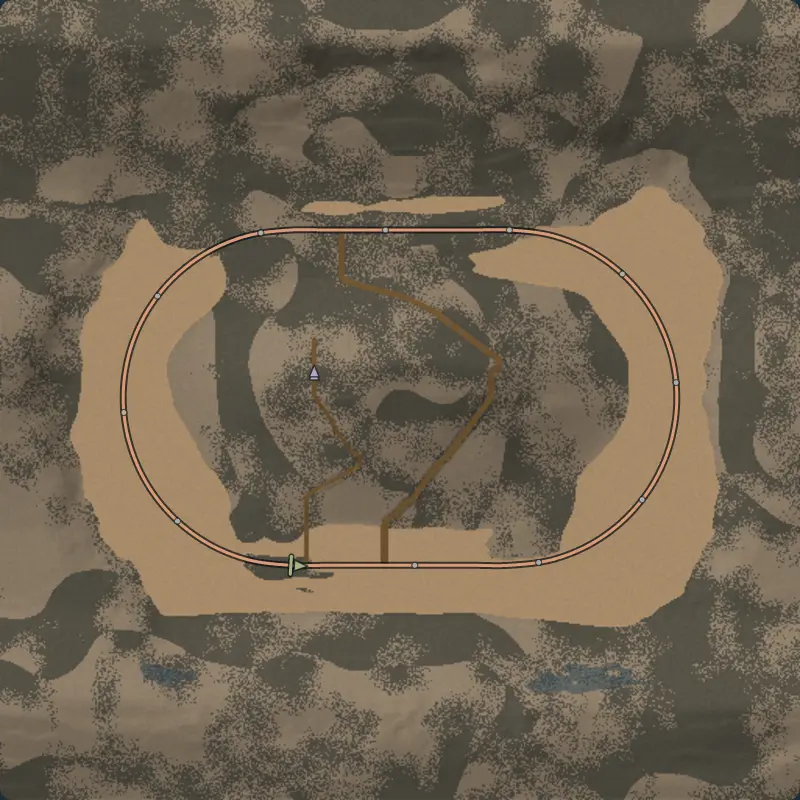
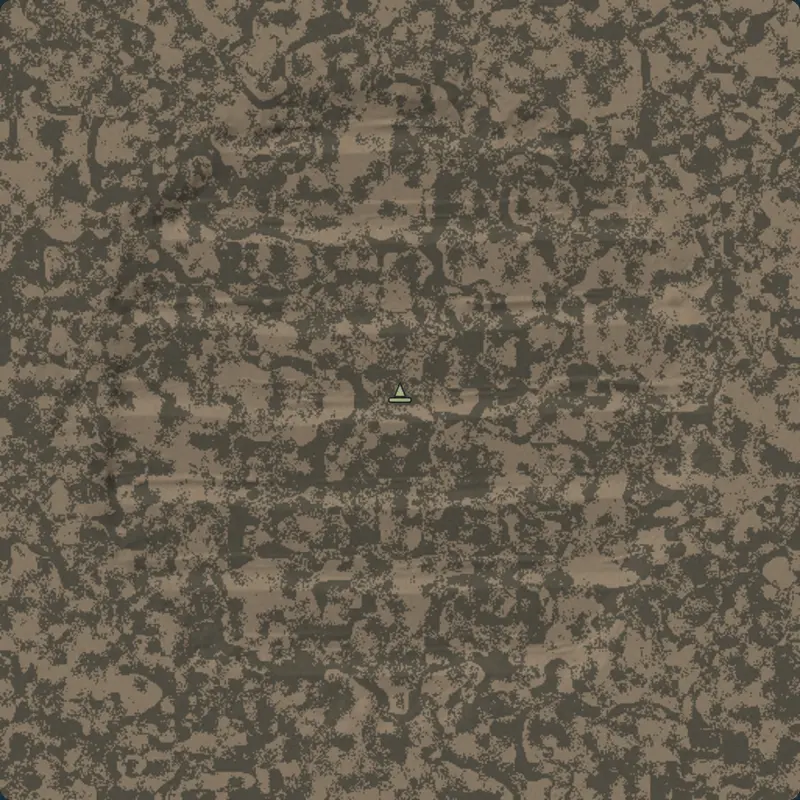
fix: dune sea resets in place and offers no lobby race
- KindSpec reset_in_place: a free-driving reset rights the car where it stands; the dune sea sets it
- Online page: the Lobby race tile says there are no races when the map has no routes, instead of starting one that never finishes
- Big dunes menu pictures re-shot from the dune sea

diff --git a/src/world/world.ts b/src/world/world.ts
@@ -161,6 +161,7 @@ export class World implements Ground {
   /** The footing of the kind's own ground, untouched by any laid surface. */
   readonly own_ground: Footing;
   private readonly fall_reset: boolean;
+  private readonly reset_in_place: boolean;
   private readonly water: WaterIndex | null;
   /** Crater lava the scene draws; empty on kinds without it. */
   readonly lava: readonly LavaPool[];
@@ -235,6 +236,7 @@ export class World implements Ground {
     this.grips = snow?.grip ?? KINDS[data.kind].grip;
     this.own_ground = this.grips.surfaces[SurfaceId.GRASS];
     this.fall_reset = KINDS[data.kind].fall_reset;
+    this.reset_in_place = KINDS[data.kind].reset_in_place === true;
     const water = data.ground.ops.find((op) => op.kind === "water");
     this.water = water?.kind === "water" ? water_index(water.water) : null;
     const lava = data.ground.ops.find((op) => op.kind === "lava");
@@ -465,6 +467,7 @@ export class World implements Ground {
 
   /** Where a reset puts the car: the nearest point of any road (circuit, spur or street) or trail, facing along it the way `fx, fz` points. */
   spawn_near(x: number, z: number, fx: number, fz: number): Spawn {
+    if (this.reset_in_place) return { x, y: this.height(x, z), z, heading: Math.atan2(fx, fz) };
     const first_trail = this.graph.edges.length + 1;
     const lane = (packed: number) => Math.floor(packed / LANE_PACK);
     const point = (packed: number) => this.lanes[lane(packed)][packed % LANE_PACK];

diff --git a/src/menu/online-page.ts b/src/menu/online-page.ts
@@ -28,6 +28,7 @@ const NET_LABEL: Record<string, string> = {
 };
 
 const BLOCKED_NOTE = "Found a player, but the network blocked the connection (mobile data often does). Try the same Wi-Fi.";
+const NO_RACES = "No races on this map: it is all free roam.";
 
 export class OnlinePage implements MenuPage {
   readonly id = MenuTab.ONLINE;
@@ -144,7 +145,7 @@ export class OnlinePage implements MenuPage {
       ready_line.textContent = this.ready_text(routes);
       record.textContent = this.menu.host.lobby_record();
     });
-    const race_tile = info("race", "Lobby race", picker, lap_row, note, race_actions, ready_line, record);
+    const race_tile = routes.length ? info("race", "Lobby race", picker, lap_row, note, race_actions, ready_line, record) : info("race", "Lobby race", el("small", "menu-caption", NO_RACES));
 
     const fresh = tile("new", "New room", "A fresh code, a map, an optional password", icon("icon-dice"), () => this.menu.show("room"));
     return mosaic(MenuTab.ONLINE, room_tile, players_tile(this.menu), games, race_tile, fresh);

diff --git a/src/worldgen/dune-sea.test.ts b/src/worldgen/dune-sea.test.ts
@@ -71,6 +71,15 @@ for (const seed of sweep(10))
     expect(top - low).toBeGreaterThan(60);
   });
 
+test("a free-driving reset rights the car where it stands, kilometres from the spawn", () => {
+  const data = generate_dune_sea(0);
+  const world = new World(0, data, []);
+  const [x, z] = [1500, -900];
+  const index = chunk_of(x, z, EXT);
+  world.tiles.add(index, build_tile(data.ground, index, EXT));
+  expect(world.spawn_near(x, z, 0, -1)).toEqual({ x, y: world.height(x, z), z, heading: Math.PI });
+});
+
 function crests(seed: number, data: WorldData): { x: number; z: number; drop: number }[] {
   const height = land_height(seed, shape_of(data));
   const { x: wx, z: wz } = wind_of(seed, data);

diff --git a/src/worldgen/kinds/kind-def.ts b/src/worldgen/kinds/kind-def.ts
@@ -51,6 +51,8 @@ export interface KindSpec {
   ground: boolean;
   /** Falling under the deck resets the car; false = it lands on the ground below. */
   fall_reset: boolean;
+  /** A free-driving reset rights the car where it stands: a world with no roads to put it back on. Absent = the nearest road or trail. */
+  reset_in_place?: boolean;
   grip: GripTable;
 }
 

diff --git a/src/worldgen/kinds/big-dunes.ts b/src/worldgen/kinds/big-dunes.ts
@@ -17,5 +17,6 @@ export const big_dunes = kind_def({
   rails: false,
   ground: true,
   fall_reset: false,
+  reset_in_place: true,
   grip: SAND_GRIP,
 });
